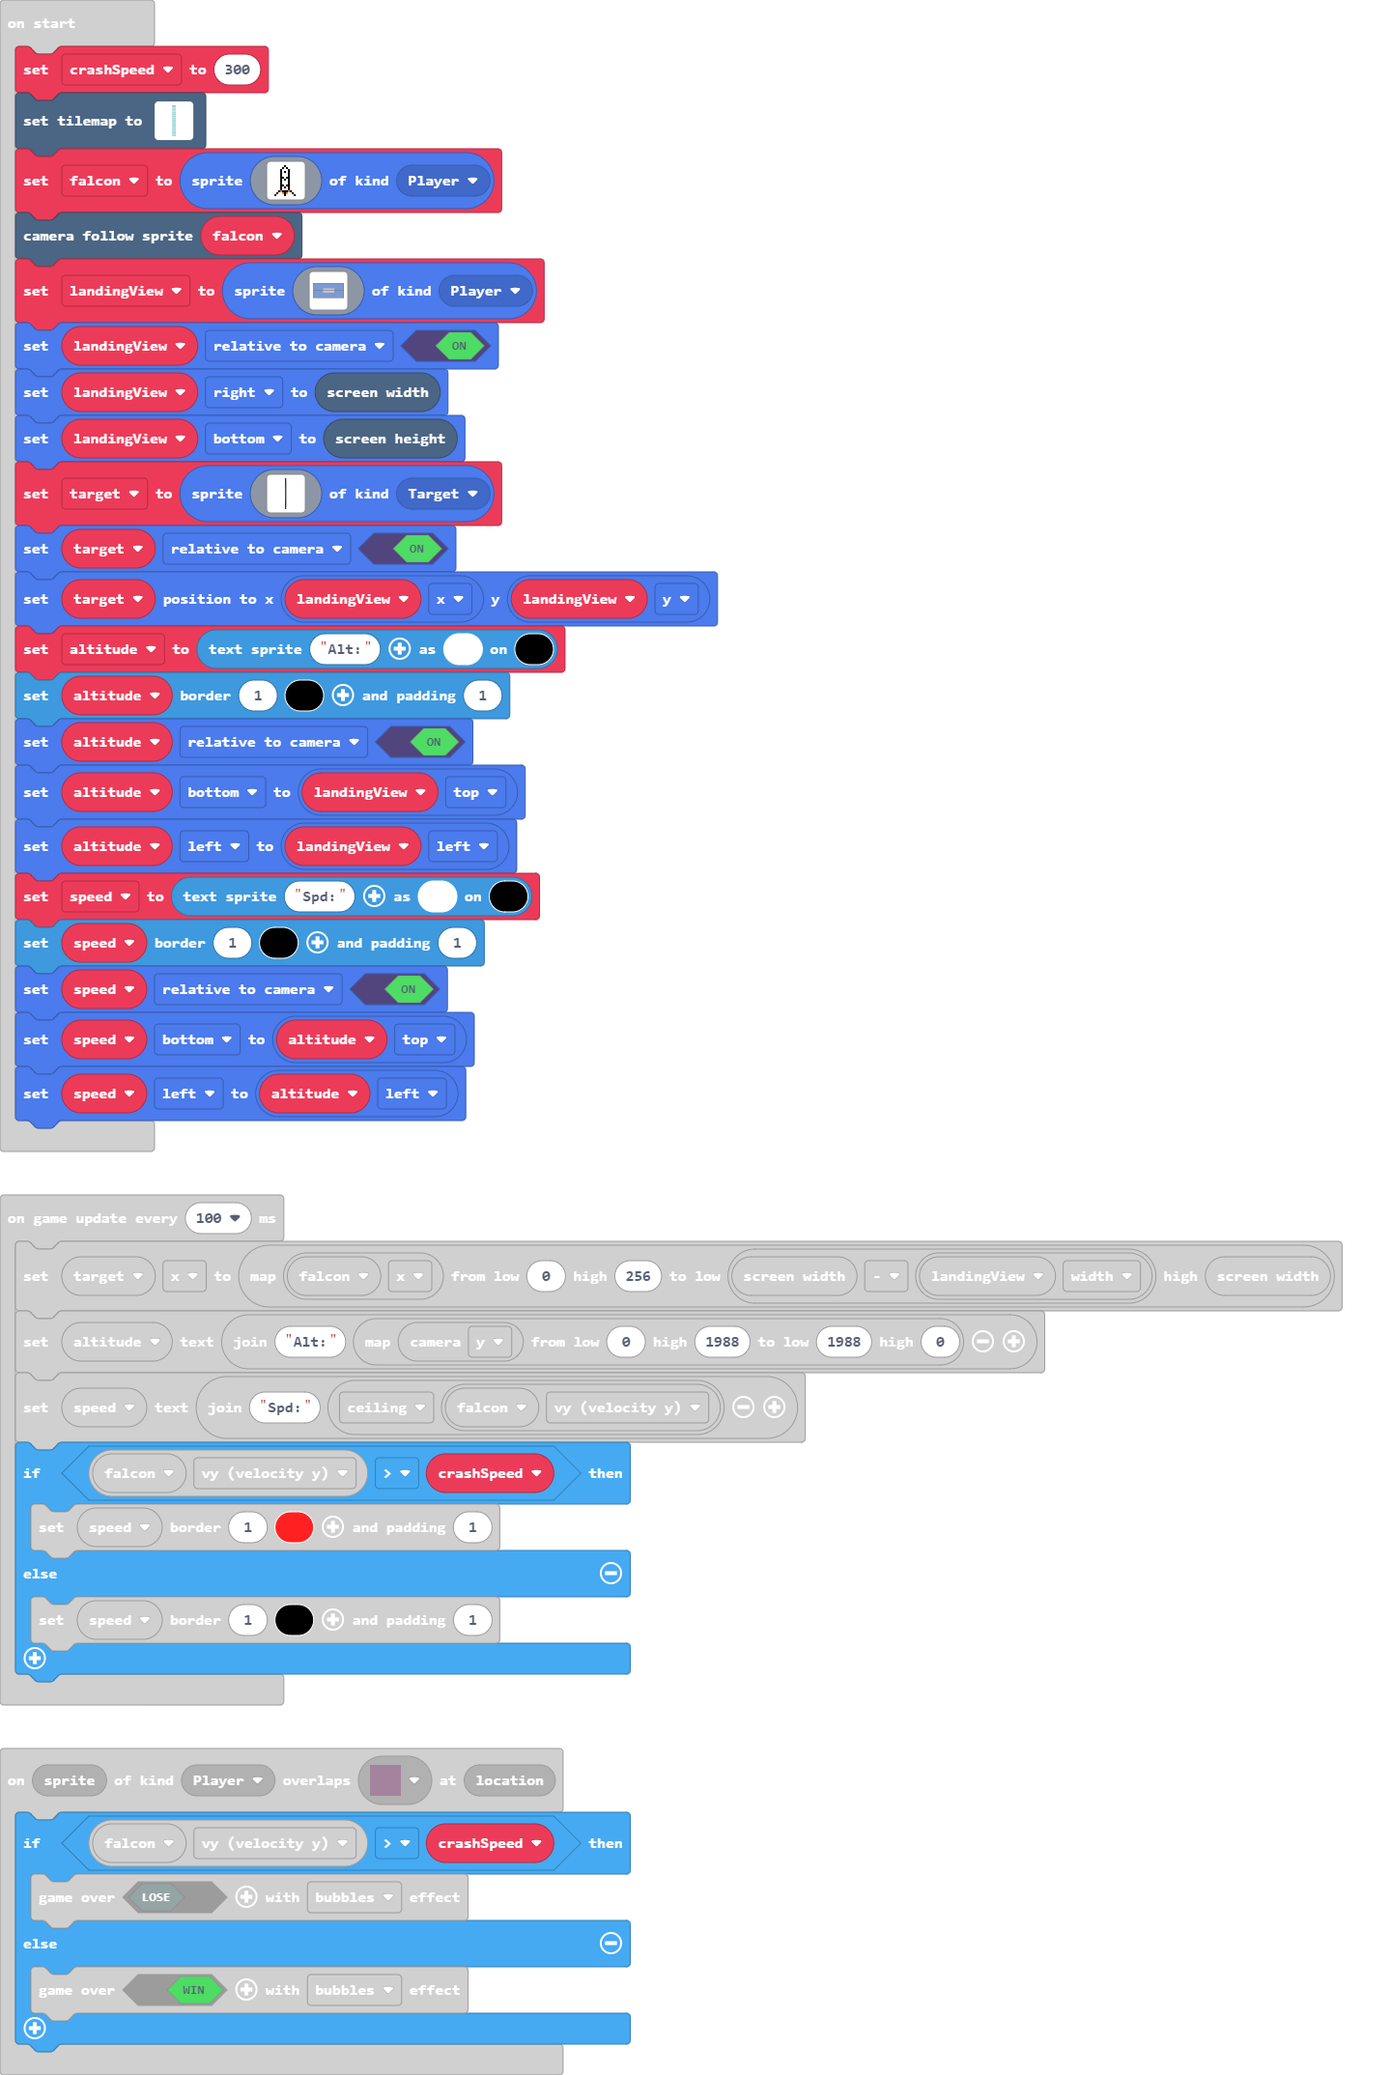
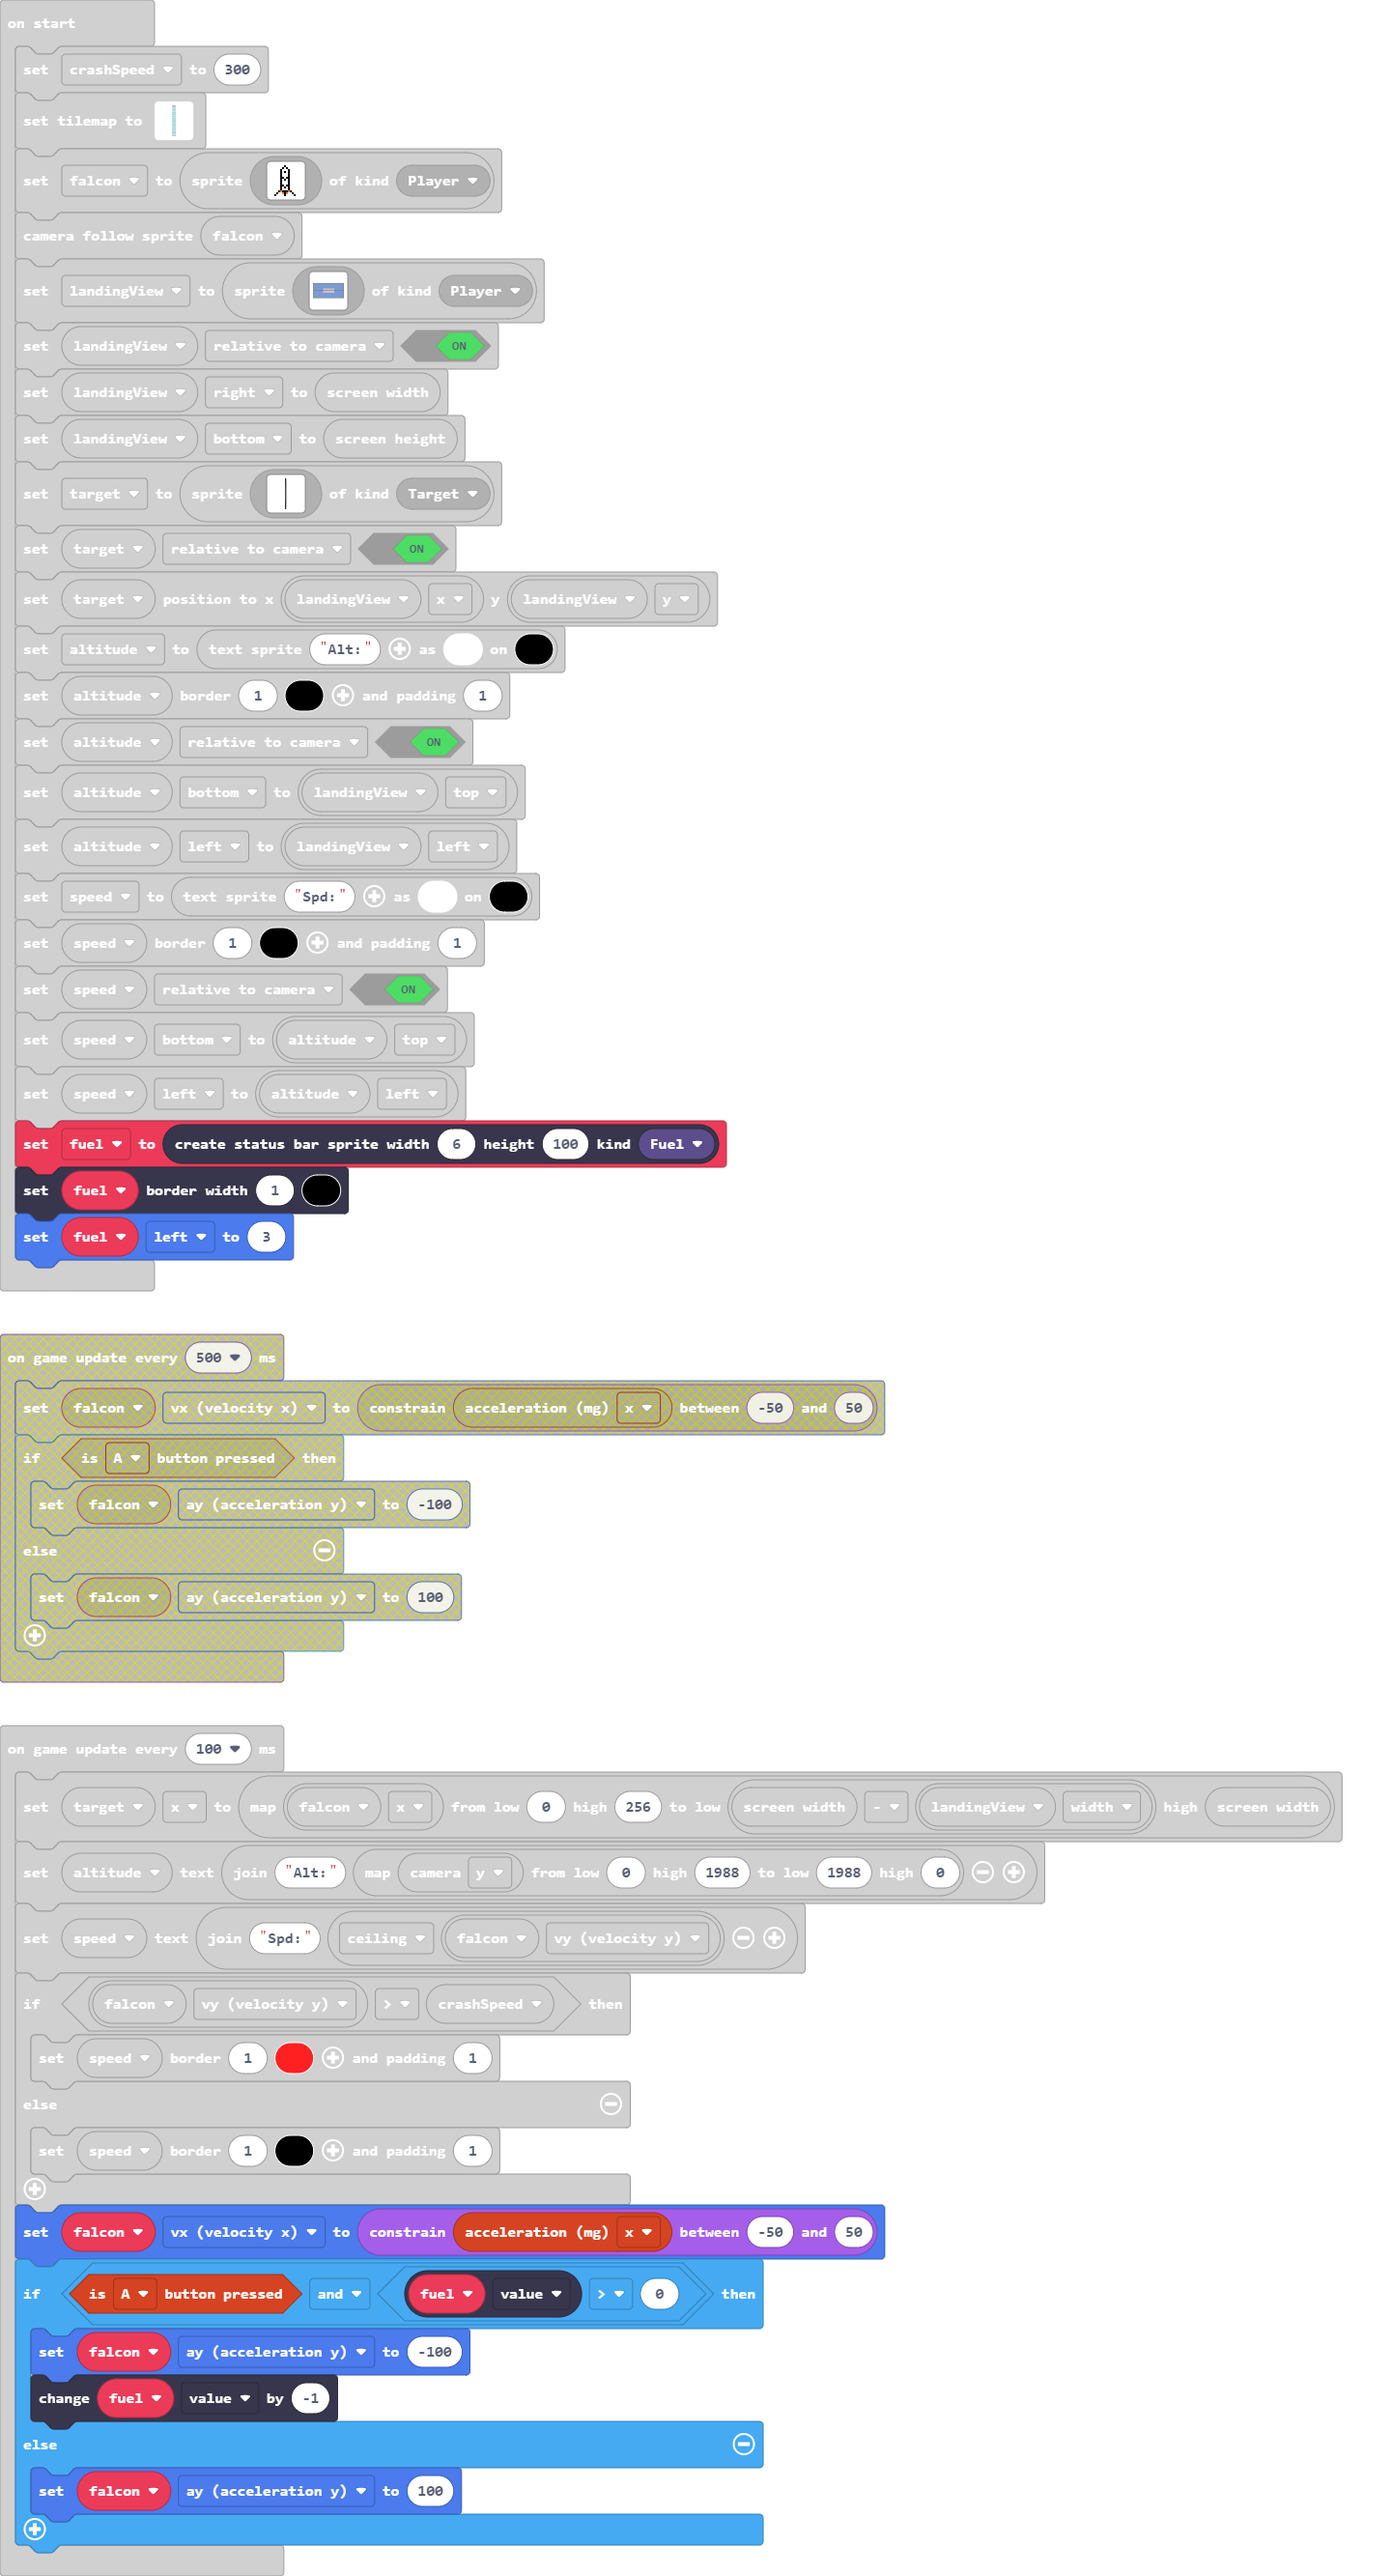
Add fuelbar and move acceleration logic to 100ms game update.

diff --git a/main.ts b/main.ts
@@ -1,6 +1,9 @@
 namespace SpriteKind {
     export const Target = SpriteKind.create()
 }
+namespace StatusBarKind {
+    export const Fuel = StatusBarKind.create()
+}
 scene.onOverlapTile(SpriteKind.Player, myTiles.tile2, function (sprite, location) {
     if (falcon.vy > crashSpeed) {
         game.over(false)
@@ -244,14 +247,9 @@ speed.setBorder(1, 15, 1)
 speed.setFlag(SpriteFlag.RelativeToCamera, true)
 speed.bottom = altitude.top
 speed.left = altitude.left
-game.onUpdateInterval(500, function () {
-    falcon.vx = Math.constrain(controller.acceleration(ControllerDimension.X), -50, 50)
-    if (controller.A.isPressed()) {
-        falcon.ay = -100
-    } else {
-        falcon.ay = 100
-    }
-})
+let fuel = statusbars.create(6, 100, StatusBarKind.Fuel)
+fuel.setBarBorder(1, 15)
+fuel.left = 3
 game.onUpdateInterval(100, function () {
     target.x = Math.map(falcon.x, 0, 256, scene.screenWidth() - landingView.width, scene.screenWidth())
     altitude.setText("Alt:" + Math.map(scene.cameraProperty(CameraProperty.Y), 0, 1988, 1988, 0))
@@ -260,5 +258,12 @@ game.onUpdateInterval(100, function () {
         speed.setBorder(1, 2, 1)
     } else {
         speed.setBorder(1, 15, 1)
+    }
+    falcon.vx = Math.constrain(controller.acceleration(ControllerDimension.X), -50, 50)
+    if (controller.A.isPressed() && fuel.value > 0) {
+        falcon.ay = -100
+        fuel.value += -1
+    } else {
+        falcon.ay = 100
     }
 })
